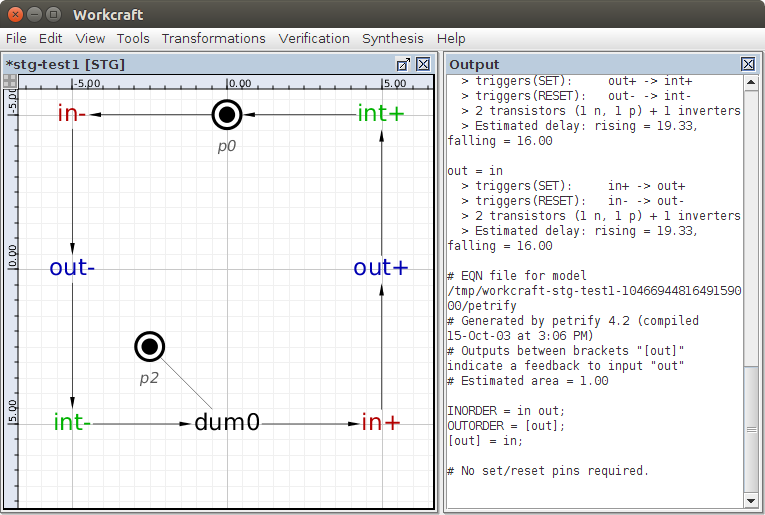
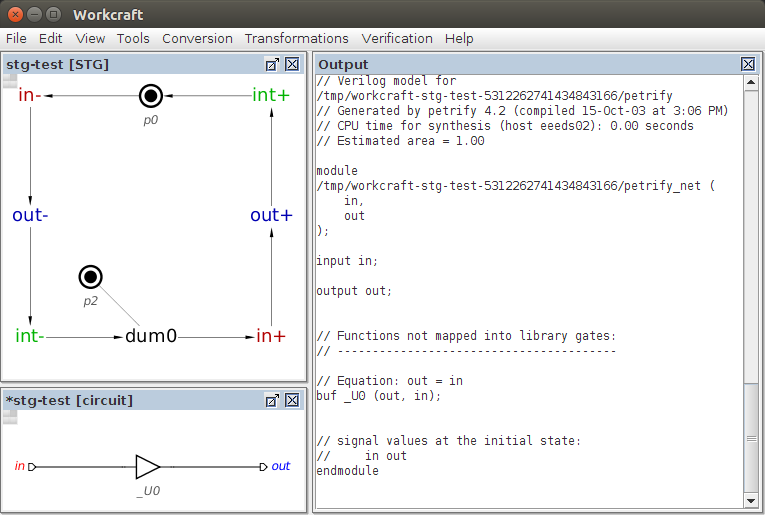
Minor improvements for simulation of circuit with zero-delay gates.

diff --git a/help/stg_plugin.html b/help/stg_plugin.html
@@ -5,7 +5,7 @@
     <title>Workcraft - help:stg_plugin</title>
     <script>(function(H){H.className=H.className.replace(/\bno-js\b/,'js')})(document.documentElement)</script>
     <meta name="generator" content="DokuWiki"/>
-<meta name="robots" content="index,follow"/>
+<meta name="robots" content="noindex,nofollow"/>
 <meta name="keywords" content="help,stg plugin"/>
 <link rel="search" type="application/opensearchdescription+xml" href="lib/exe/opensearch.html" title="Workcraft"/>
 <link rel="start" href="stg_plugin.html"/>
@@ -17,7 +17,7 @@
 <link rel="alternate" type="text/plain" title="Wiki Markup" href="_export/raw/help/stg_plugin.raw"/>
 <link rel="canonical" href="http://www.workcraft.org/help/stg_plugin"/>
 <link rel="stylesheet" type="text/css" href="lib/exe/css.php.t.dokuwiki-light-export.css"/>
-<script type="text/javascript">/*<![CDATA[*/var NS='help';var SIG=' --- //[[danilovesky@gmail.com|Danil Sokolov]] 2015/10/31 20:25//';var JSINFO = {"id":"help:stg_plugin","namespace":"help","plugin_folded":{"hide":"hide","reveal":"reveal"}};
+<script type="text/javascript">/*<![CDATA[*/var NS='help';var SIG=' --- //[[danilovesky@gmail.com|Danil Sokolov]] 2015/11/02 11:11//';var JSINFO = {"id":"help:stg_plugin","namespace":"help","plugin_folded":{"hide":"hide","reveal":"reveal"}};
 /*!]]>*/</script>
 <script type="text/javascript" charset="utf-8" src="lib/exe/js.php.t.dokuwiki-light-export.js"></script>
     <meta name="viewport" content="width=device-width,initial-scale=1" />
@@ -57,7 +57,7 @@
         <div id="dokuwiki__sitetools">
             <h3 class="a11y">Site Tools</h3>
                             <div class="mobileTools">
-                    <form action="/doku.html.doku.php.html" method="get" accept-charset="utf-8"><div class="no"><input type="hidden" name="id" value="help:stg_plugin" /><input type="hidden" name="sectok" value="dcc46c4e4f76daf29a5f78f46acf747a" /><select name="do" class="edit quickselect" title="Tools"><option value="">Tools</option><optgroup label="Page Tools"><option value="edit">Edit this page</option><option value="revisions">Old revisions</option><option value="backlink">Backlinks</option></optgroup><optgroup label="Site Tools"><option value="recent">Changes</option><option value="media">Manager</option><option value="index">Sitemap</option></optgroup><optgroup label="User Tools"><option value="logout">Logout</option><option value="profile">Profile</option><option value="admin">Admin</option></optgroup></select><input type="submit" value="&gt;" /></div></form>                </div>
+                    <form action="/doku.html.doku.php.html" method="get" accept-charset="utf-8"><div class="no"><input type="hidden" name="id" value="help:stg_plugin" /><input type="hidden" name="sectok" value="a97989eb66de8627fbb84e04f8a5aad1" /><select name="do" class="edit quickselect" title="Tools"><option value="">Tools</option><optgroup label="Page Tools"><option value="edit">Edit this page</option><option value="revisions">Old revisions</option><option value="backlink">Backlinks</option></optgroup><optgroup label="Site Tools"><option value="recent">Changes</option><option value="media">Manager</option><option value="index">Sitemap</option></optgroup><optgroup label="User Tools"><option value="logout">Logout</option><option value="profile">Profile</option><option value="admin">Admin</option></optgroup></select><input type="submit" value="&gt;" /></div></form>                </div>
                 <ul>
                     <li><a href="stg_plugin.html"  class="action recent" accesskey="r" rel="nofollow" title="Changes [R]">Changes</a></li><li><a href="stg_plugin.html"  class="action media" rel="nofollow" title="Manager">Manager</a></li><li><a href="stg_plugin.html"  class="action index" accesskey="x" rel="nofollow" title="Sitemap [X]">Sitemap</a></li>                </ul>
                     </div>
@@ -393,11 +393,15 @@ These synthesis options are available under the <em>Synthesis</em> menu:
 
 
 <p>
-Here is an example of complex gate synthesis of our example by <em>Petrify</em>. The last equation in the <em>Output</em> window suggests that this STG specification can be implemented by a wire (or a buffer).
+Here is an example of complex gate synthesis of our example by <em>Petrify</em>. The synthesis result in Verilog format are reported in the <em>Output</em> tab. By default this Verilog netlist is automatically converted into a <em>Digital Circuit</em> model. This behaviour can be controlled by <em>Import synthesis result</em> option of the Digital Circuit settings under <em>Edit→Preferences…</em> menu.
 </p>
 
 <p>
 <img src="stg-synthesis.png" class="mediacenter" title="Synthesis of the STG specification" alt="Synthesis of the STG specification" />
+</p>
+
+<p>
+In case of this example the complex gate implementation is just a buffer between the input <span style='color:red; '>in</span> and the output <span style='color:blue; '>out</span> pins. 
 </p>
 
 </div>
@@ -405,7 +409,7 @@ Here is an example of complex gate synthesis of our example by <em>Petrify</em>.
                     <!-- wikipage stop -->
                                     </div>
 <!--
-                                    <div class="docInfo"><bdi>help/stg_plugin.txt</bdi> · Last modified: 2015/10/15 09:57 by <bdi>danil</bdi></div>
+                                    <div class="docInfo"><bdi>help/stg_plugin.txt</bdi> · Last modified: 2015/11/02 11:08 by <bdi>danil</bdi></div>
                 -->
                             </div></div><!-- /content -->
 
